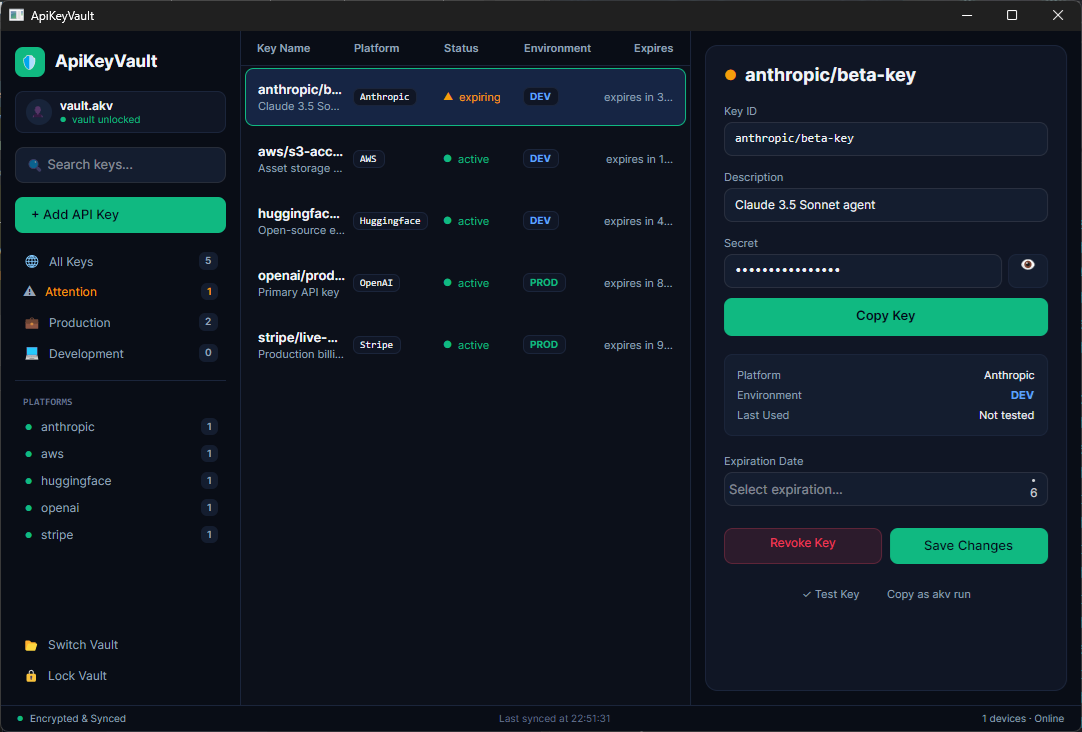
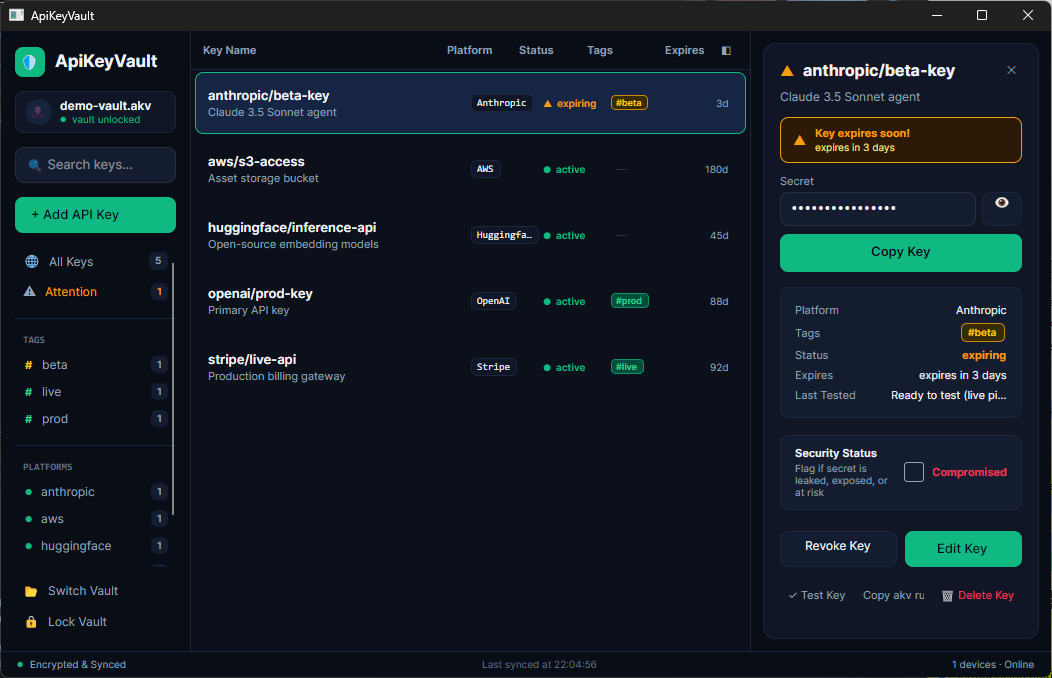
feat(ui): improve responsive table layout, entry selection inspector toggle, and add headless visual tests

diff --git a/tests/ApiKeyVault.UI.Tests/HeadlessVisualTests.cs b/tests/ApiKeyVault.UI.Tests/HeadlessVisualTests.cs
@@ -1,0 +1,125 @@
+using Avalonia;
+using Avalonia.Headless;
+using Avalonia.Headless.XUnit;
+using Avalonia.Media.Imaging;
+using ApiKeyVault.Core.Cryptography;
+using ApiKeyVault.Core.Model;
+using ApiKeyVault.Core.Storage;
+using ApiKeyVault.Core.Vault;
+using ApiKeyVault.UI.ViewModels;
+using ApiKeyVault.UI.Views;
+
+namespace ApiKeyVault.UI.Tests;
+
+public class HeadlessVisualTests : IDisposable
+{
+    private readonly string _tempDir;
+    private readonly string _vaultPath;
+    private readonly string _statePath;
+    private readonly InMemoryDeviceKeyStore _deviceStore;
+    private readonly LocalStateManager _stateManager;
+    private readonly string _artifactDir = @"C:\Users\DandreJansenvanVuure\.gemini\antigravity-ide\brain\d6397232-02cf-4e8c-9b33-e4e05a89fbab";
+
+    private static readonly Argon2idParameters FastKdf = new()
+    {
+        MemoryKiB = CryptoConstants.MinMemoryKiB,
+        Iterations = CryptoConstants.MinIterations,
+        Parallelism = 1
+    };
+
+    public HeadlessVisualTests()
+    {
+        _tempDir = Path.Combine(Path.GetTempPath(), "AkvHeadless_" + Guid.NewGuid().ToString("N"));
+        Directory.CreateDirectory(_tempDir);
+        _vaultPath = Path.Combine(_tempDir, "demo-vault.akv");
+        _statePath = Path.Combine(_tempDir, "state.json");
+        _deviceStore = new InMemoryDeviceKeyStore();
+        _stateManager = new LocalStateManager(_statePath);
+    }
+
+    [AvaloniaFact]
+    public void RenderMainWindow_Normal_Narrow_Collapsed_And_ModalDialogs()
+    {
+        // 1. Create demo vault mirroring user's demo-vault.akv
+        var createResult = VaultManager.CreateVault(_vaultPath, "P@ssw0rd", "TEST-MACHINE", FastKdf, _deviceStore, _stateManager);
+        var session = createResult.Session;
+
+        var today = DateTimeOffset.UtcNow;
+        session.AddEntry("anthropic", "beta-key", "demo-anthropic-secret-123", comment: "Claude 3.5 Sonnet agent", expires: today.AddDays(3));
+        session.AddEntry("aws", "s3-access", "demo-aws-s3-secret-456", comment: "Asset storage bucket", expires: today.AddDays(180));
+        session.AddEntry("huggingface", "inference-api", "demo-hf-secret-789", comment: "Open-source embedding models", expires: today.AddDays(45));
+        session.AddEntry("openai", "prod-key", "demo-openai-secret-abc", comment: "Primary API key", expires: today.AddDays(88));
+        session.AddEntry("stripe", "live-api", "demo-stripe-secret-def", comment: "Production billing gateway", expires: today.AddDays(92));
+        session.Dispose();
+
+        // 2. Setup ViewModel and unlock
+        var vm = new MainWindowViewModel(
+            _deviceStore,
+            _stateManager,
+            defaultVaultPath: _vaultPath
+        );
+        vm.UnlockPassphrase = "P@ssw0rd";
+        vm.UnlockCommand.Execute(null);
+        Assert.True(vm.IsUnlocked);
+        Assert.Equal(5, vm.TotalKeysCount);
+
+        // --- 1. NORMAL VIEW (1080x720) ---
+        var window = new MainWindow
+        {
+            DataContext = vm,
+            Width = 1080,
+            Height = 720
+        };
+        window.Show();
+
+        var normalFrame = window.CaptureRenderedFrame();
+        Assert.NotNull(normalFrame);
+        normalFrame.Save(Path.Combine(_artifactDir, "1_normal_view_1080x720.png"));
+
+        // --- 2. NARROW VIEW (880x650) with inspector visible ---
+        window.Width = 880;
+        window.Height = 650;
+        var narrowFrame = window.CaptureRenderedFrame();
+        Assert.NotNull(narrowFrame);
+        narrowFrame.Save(Path.Combine(_artifactDir, "2_narrow_view_850x650.png"));
+
+        // --- 3. COLLAPSED INSPECTOR VIEW (880x650) ---
+        vm.IsInspectorVisible = false;
+        var collapsedFrame = window.CaptureRenderedFrame();
+        Assert.NotNull(collapsedFrame);
+        collapsedFrame.Save(Path.Combine(_artifactDir, "3_collapsed_inspector_850x650.png"));
+
+        // Verify auto-show inspector on entry selection
+        vm.SelectedEntry = vm.FilteredEntries[2];
+        Assert.True(vm.IsInspectorVisible);
+
+        // --- 4. NEW KEY MODAL VIEW ---
+        vm.OpenAddKeyDialogCommand.Execute(null);
+        Assert.True(vm.IsAddKeyDialogOpen);
+        Assert.False(vm.KeyDialogIsEditing);
+        var newKeyModalFrame = window.CaptureRenderedFrame();
+        Assert.NotNull(newKeyModalFrame);
+        newKeyModalFrame.Save(Path.Combine(_artifactDir, "4_new_key_dialog_modal.png"));
+
+        // --- 5. EDIT KEY MODAL VIEW ---
+        vm.CancelKeyDialogCommand.Execute(null);
+        vm.OpenEditKeyDialogCommand.Execute(null);
+        Assert.True(vm.IsAddKeyDialogOpen);
+        Assert.True(vm.KeyDialogIsEditing);
+        var editKeyModalFrame = window.CaptureRenderedFrame();
+        Assert.NotNull(editKeyModalFrame);
+        editKeyModalFrame.Save(Path.Combine(_artifactDir, "5_edit_key_dialog_modal.png"));
+    }
+
+    public void Dispose()
+    {
+        try
+        {
+            if (Directory.Exists(_tempDir))
+            {
+                Directory.Delete(_tempDir, true);
+            }
+        }
+        catch { }
+    }
+}

diff --git a/src/ApiKeyVault.UI/ViewModels/EntryItemViewModel.cs b/src/ApiKeyVault.UI/ViewModels/EntryItemViewModel.cs
@@ -19,6 +19,9 @@ public sealed partial class EntryItemViewModel : ObservableObject
     public string? Comment => Entry.Comment;
     public string? Source => Entry.Source;
     public DateTimeOffset Created => Entry.Created;
+    public bool HasComment => !string.IsNullOrWhiteSpace(Comment);
+    public bool IsExpiringSoon => Status == KeyStatus.Due;
+    public bool IsExpired => Status == KeyStatus.Expired;
 
     public bool IsCompromised => Entry.IsCompromised;
     public bool IsRevoked => Entry.IsRevoked;
@@ -64,6 +67,25 @@ public sealed partial class EntryItemViewModel : ObservableObject
                 return days >= 0 ? $"review in {days} days" : $"review due";
             }
             return "No expiry set";
+        }
+    }
+
+    public string ExpiryTableDescription
+    {
+        get
+        {
+            var now = DateTimeOffset.UtcNow;
+            if (Entry.Expires.HasValue)
+            {
+                int days = (int)Math.Ceiling((Entry.Expires.Value - now).TotalDays);
+                return days >= 0 ? $"{days}d" : $"{Math.Abs(days)}d ago";
+            }
+            if (Entry.ReviewBy.HasValue)
+            {
+                int days = (int)Math.Ceiling((Entry.ReviewBy.Value - now).TotalDays);
+                return days >= 0 ? $"rev {days}d" : "rev due";
+            }
+            return "—";
         }
     }
 
@@ -123,15 +145,40 @@ public sealed partial class EntryItemViewModel : ObservableObject
                                 .Select(s => s.Trim().ToLowerInvariant())
                                 .ToList();
 
-            if (slices.Count >= 2)
+            if (slices.Count >= 3)
             {
-                // Everything after the provider (index 0) is a potential scope/tag slice
-                for (int i = 1; i < slices.Count; i++)
+                // In multi-slice paths (e.g. provider/env/team/name):
+                // Intermediate slices [1..^1] are hierarchical scope tags
+                for (int i = 1; i < slices.Count - 1; i++)
                 {
                     string slice = slices[i];
                     if (!string.IsNullOrEmpty(slice) && slice.Any(char.IsLetter) && !list.Contains(slice))
                     {
                         list.Add(slice);
+                    }
+                }
+
+                // If the last slice is also a recognized category keyword (e.g. 'intent', 'personal'), include it
+                string lastName = slices[^1];
+                if (IsCategoryKeyword(lastName) && !list.Contains(lastName))
+                {
+                    list.Add(lastName);
+                }
+            }
+            else if (slices.Count == 2)
+            {
+                // In standard 2-slice provider/name:
+                // Only extract recognized category keywords or prefixes (e.g. 'prod', 'live', 'beta', 'dev', 'intent', 'personal')
+                string name = slices[1];
+                foreach (var kw in KnownCategoryKeywords)
+                {
+                    if (name.Equals(kw, StringComparison.OrdinalIgnoreCase) ||
+                        name.StartsWith(kw + "-", StringComparison.OrdinalIgnoreCase) ||
+                        name.StartsWith(kw + "_", StringComparison.OrdinalIgnoreCase) ||
+                        name.EndsWith("-" + kw, StringComparison.OrdinalIgnoreCase) ||
+                        name.EndsWith("_" + kw, StringComparison.OrdinalIgnoreCase))
+                    {
+                        if (!list.Contains(kw)) list.Add(kw);
                     }
                 }
             }
@@ -237,4 +284,14 @@ public sealed partial class EntryItemViewModel : ObservableObject
     {
         Entry = entry;
     }
+
+    private static readonly string[] KnownCategoryKeywords =
+    [
+        "intent", "personal", "prod", "production", "dev", "development",
+        "staging", "stag", "test", "testing", "live", "beta", "git",
+        "embeddings", "ai", "qa", "sandbox", "demo", "admin"
+    ];
+
+    private static bool IsCategoryKeyword(string value) =>
+        KnownCategoryKeywords.Any(k => string.Equals(k, value, StringComparison.OrdinalIgnoreCase));
 }

diff --git a/src/ApiKeyVault.UI/Views/MainWindow.axaml.cs b/src/ApiKeyVault.UI/Views/MainWindow.axaml.cs
@@ -1,5 +1,9 @@
 using System;
+using Avalonia;
 using Avalonia.Controls;
+using Avalonia.Input;
+using Avalonia.VisualTree;
+using ApiKeyVault.UI.ViewModels;
 
 namespace ApiKeyVault.UI.Views;
 
@@ -8,5 +12,27 @@ public partial class MainWindow : Window
     public MainWindow()
     {
         InitializeComponent();
+    }
+
+    private void OnEntryListTapped(object? sender, TappedEventArgs e)
+    {
+        if (DataContext is MainWindowViewModel vm)
+        {
+            if (e.Source is Visual visual)
+            {
+                var listBoxItem = visual.FindAncestorOfType<ListBoxItem>();
+                if (listBoxItem?.DataContext is EntryItemViewModel item)
+                {
+                    vm.SelectedEntry = item;
+                    vm.IsInspectorVisible = true;
+                    return;
+                }
+            }
+
+            if (vm.SelectedEntry != null)
+            {
+                vm.IsInspectorVisible = true;
+            }
+        }
     }
 }

diff --git a/src/ApiKeyVault.UI/ViewModels/MainWindowViewModel.cs b/src/ApiKeyVault.UI/ViewModels/MainWindowViewModel.cs
@@ -102,6 +102,18 @@ public sealed partial class MainWindowViewModel : ViewModelBase
     private EntryItemViewModel? _selectedEntry;
 
     [ObservableProperty]
+    private bool _isInspectorVisible = true;
+
+    [RelayCommand]
+    private void ToggleInspector() => IsInspectorVisible = !IsInspectorVisible;
+
+    [RelayCommand]
+    private void CloseInspector() => IsInspectorVisible = false;
+
+    [RelayCommand]
+    private void OpenInspector() => IsInspectorVisible = true;
+
+    [ObservableProperty]
     private bool _isSecretRevealed;
 
     [ObservableProperty]
@@ -488,6 +500,10 @@ public sealed partial class MainWindowViewModel : ViewModelBase
     {
         IsSecretRevealed = false;
         RevealedSecret = "••••••••••••••••";
+        if (value != null)
+        {
+            IsInspectorVisible = true;
+        }
     }
 
     [RelayCommand]

diff --git a/tests/ApiKeyVault.UI.Tests/TestAppBuilder.cs b/tests/ApiKeyVault.UI.Tests/TestAppBuilder.cs
@@ -1,0 +1,20 @@
+using Avalonia;
+using Avalonia.Headless;
+using ApiKeyVault.UI;
+using ApiKeyVault.UI.Tests;
+
+[assembly: AvaloniaTestApplication(typeof(TestAppBuilder))]
+
+namespace ApiKeyVault.UI.Tests;
+
+public class TestAppBuilder
+{
+    public static AppBuilder BuildAvaloniaApp() =>
+        AppBuilder.Configure<App>()
+            .UseSkia()
+            .UseHeadless(new AvaloniaHeadlessPlatformOptions
+            {
+                UseHeadlessDrawing = false
+            })
+            .WithInterFont();
+}
